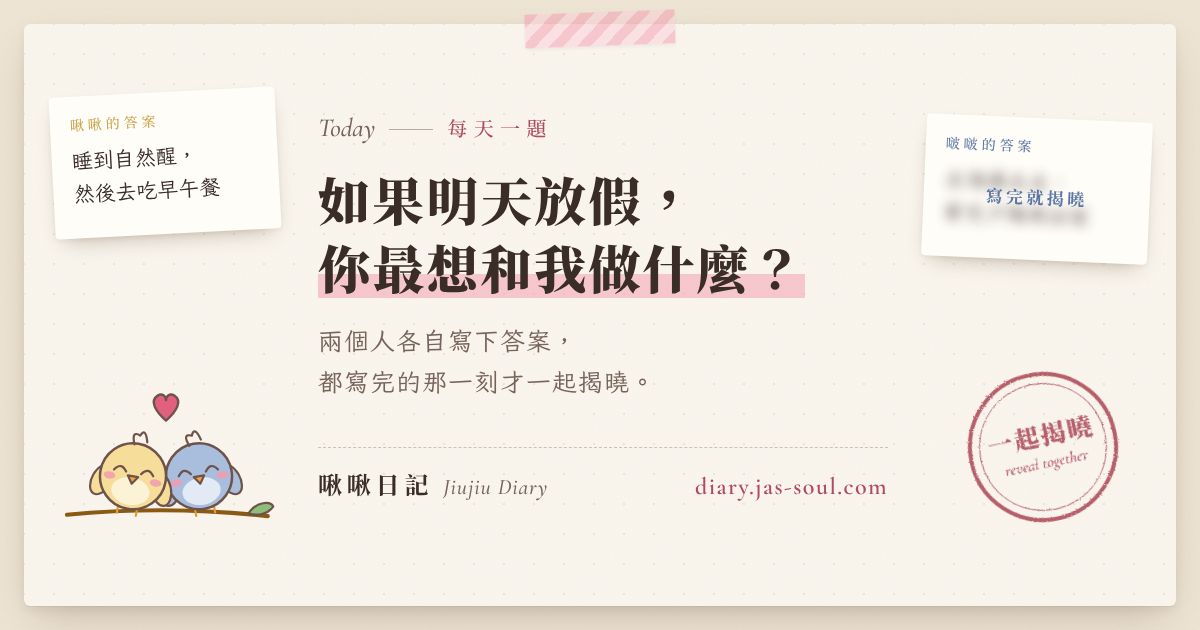
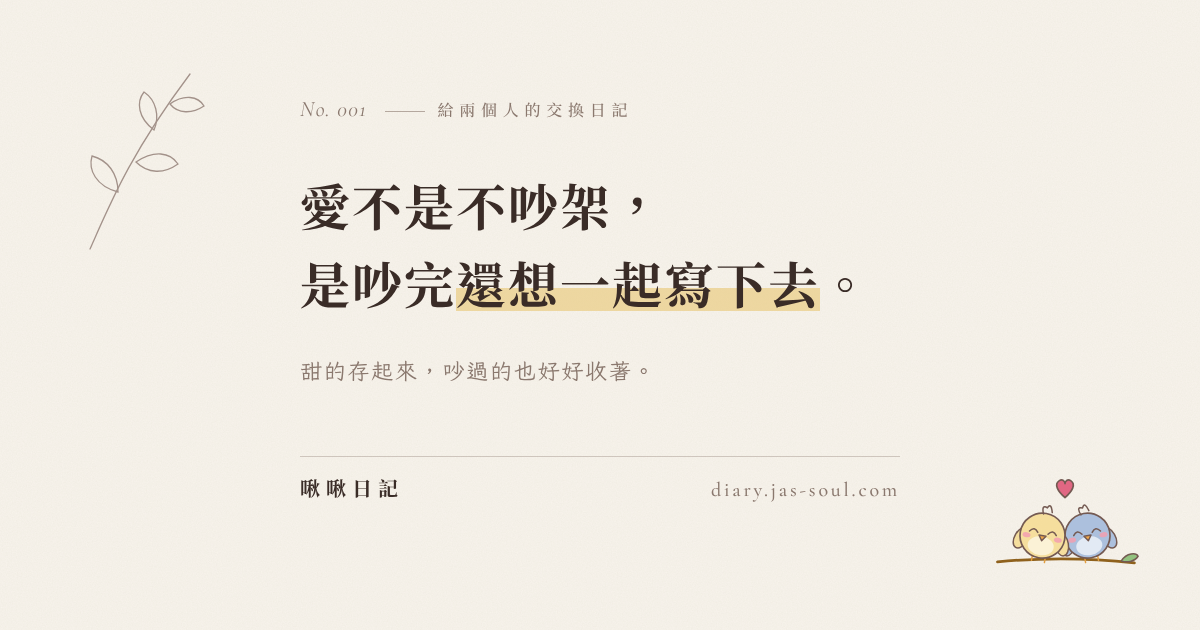
OG 分享圖換成文青留白版：「愛不是不吵架，是吵完還想一起寫下去」
重點字都在中間 600px 內，正方形和 2:1 裁切不會切到字；og.png 版本改成 v=4。

Claude-Session: https://claude.ai/code/session_01ScS36vHjk2BQLVtmVwZiWn

diff --git a/index.html b/index.html
@@ -19,14 +19,14 @@
   <meta property="og:url" content="https://diary.jas-soul.com/">
   <meta property="og:title" content="啾啾日記｜兩個人一起寫的情侶日記">
   <meta property="og:description" content="兩個人一起記下 100 個美好時刻的情侶日記。記下烏雲、整理吵架、一起完成想做的事。免費註冊就能分享給另一半一起寫。">
-  <meta property="og:image" content="https://diary.jas-soul.com/og.png?v=3">
+  <meta property="og:image" content="https://diary.jas-soul.com/og.png?v=4">
   <meta property="og:image:width" content="1200">
   <meta property="og:image:height" content="630">
-  <meta property="og:image:alt" content="啾啾日記每天一題：如果明天放假，你最想和我做什麼？兩個人都寫完才一起揭曉">
+  <meta property="og:image:alt" content="啾啾日記：愛不是不吵架，是吵完還想一起寫下去。">
   <meta name="twitter:card" content="summary_large_image">
   <meta name="twitter:title" content="啾啾日記｜兩個人一起寫的情侶日記">
   <meta name="twitter:description" content="兩個人一起記下 100 個美好時刻的情侶日記。">
-  <meta name="twitter:image" content="https://diary.jas-soul.com/og.png?v=3">
+  <meta name="twitter:image" content="https://diary.jas-soul.com/og.png?v=4">
   <link rel="manifest" href="manifest.json">
   <link rel="icon" href="icons/icon.svg" type="image/svg+xml">
   <link rel="apple-touch-icon" href="icons/icon-180.png">

diff --git a/features.html b/features.html
@@ -15,7 +15,7 @@
   <meta property="og:url" content="https://diary.jas-soul.com/features.html">
   <meta property="og:title" content="啾啾日記有哪些功能？情侶交換日記一次看懂">
   <meta property="og:description" content="記下 100 個美好時刻，把烏雲和吵架好好收著。上鎖、任務解鎖、回憶小卡，兩個人一起寫的情侶日記。">
-  <meta property="og:image" content="https://diary.jas-soul.com/og.png?v=3">
+  <meta property="og:image" content="https://diary.jas-soul.com/og.png?v=4">
   <meta property="og:image:width" content="1200">
   <meta property="og:image:height" content="630">
   <meta name="twitter:card" content="summary_large_image">
